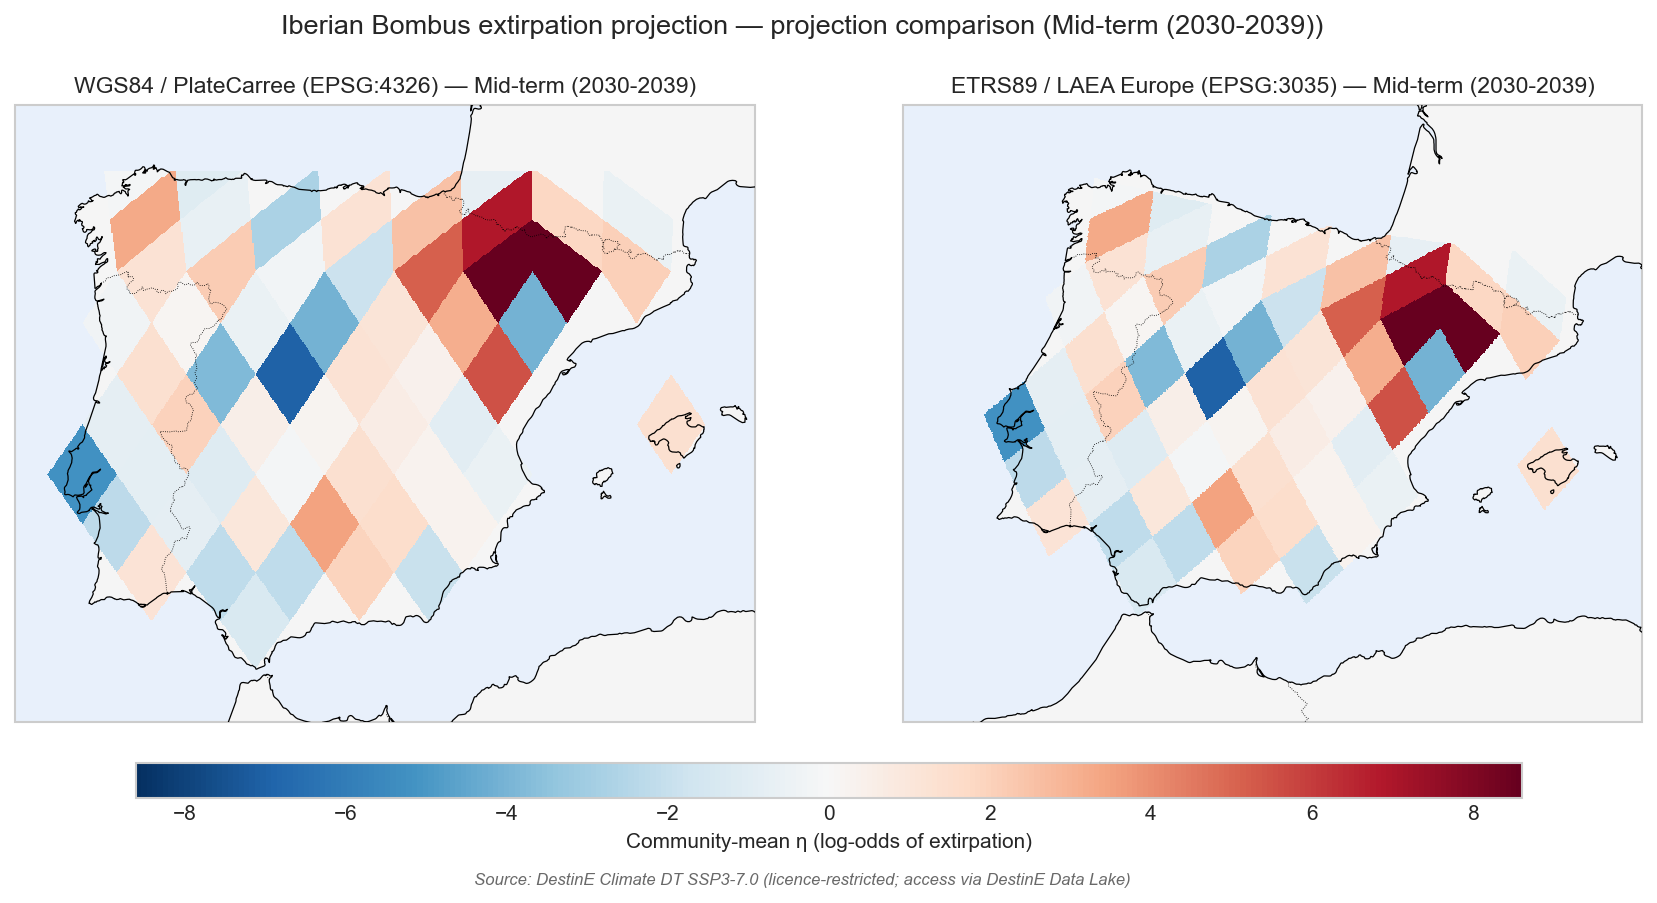
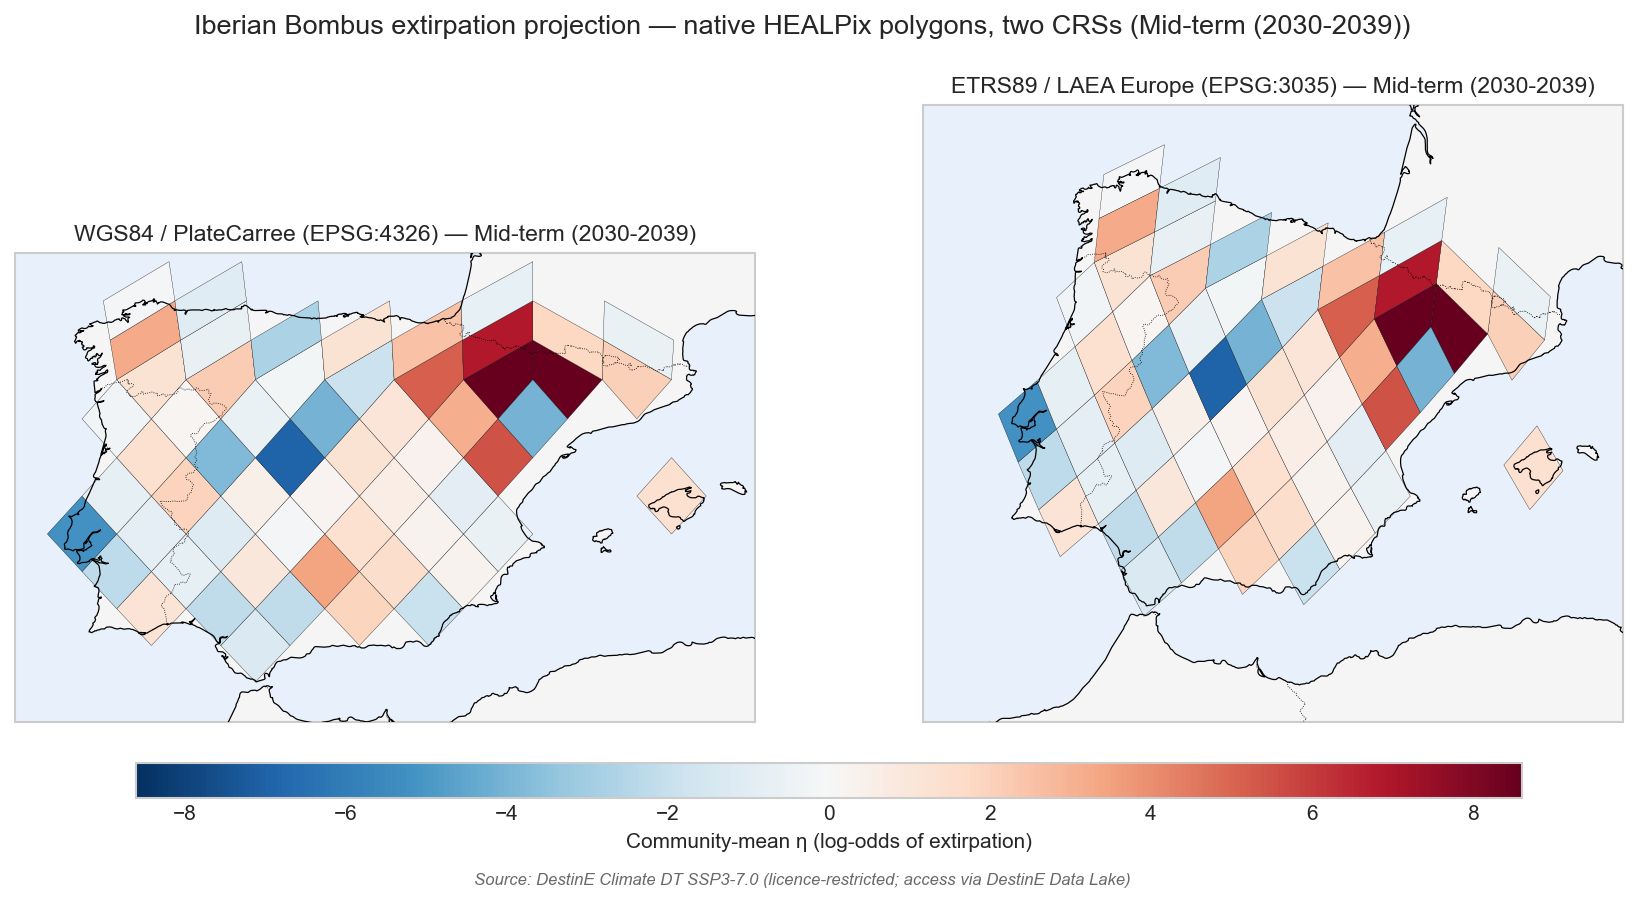
Projection comparison: switch to native HEALPix-on-WGS84 polygons (no resampling)
Per user clarification: the comparison figure should show native HEALPix
polygons (preserving cell geometry exactly), not resampled rasters. Both
panels now use the same WGS84-ellipsoid HEALPix vertices via
healpix_geo.nested.vertices(IBERIA_PIX_64, depth=6, ellipsoid='WGS84').
Cartopy reprojects the polygon edges into each panel's CRS:

  * Left  — ccrs.PlateCarree(): vertices shown at their on-WGS84
    (lon, lat) positions; raw lon/lat-as-x/y view (not equal-area).

  * Right — ccrs.epsg(3035): same vertices, reprojected through ETRS89
    / LAEA Europe (canonical EU equal-area biodiversity reporting CRS).

Result: comparison isolates the effect of CARTOGRAPHIC PROJECTION alone
(no rendering-method confound). Same diamond HEALPix geometry visible
in both, just transformed by the different CRSs.

Standalone risk maps (figures/projection_risk_map_<horizon>.png) keep
the healpix_plot resampled-raster rendering — that's still the cleaner
visual for the headline figures. The comparison figure adds methodological
transparency about how projection affects perceived spatial proportions.

healpix_plot.plot() itself can't render polygons (it always resamples to
a regular grid), so this is the cleanest way to do the
ellipsoid-native-polygon comparison the user asked for.

diff --git a/notebooks/08_projection_figures.py b/notebooks/08_projection_figures.py
@@ -49,6 +49,11 @@ import numpy as np
 import xarray as xr
 import healpix_plot
 from healpix_plot import HealpixGrid
+# healpix_geo.nested.vertices is the canonical way to get the 4 corners
+# of each HEALPix cell on a chosen ellipsoid (sphere | WGS84). Used for
+# the native-polygon rendering in the projection-comparison figure.
+from healpix_geo.nested import vertices as hp_vertices
+from matplotlib.collections import PolyCollection
 
 # %%
 plt.style.use("seaborn-v0_8-whitegrid")
@@ -112,6 +117,14 @@ for h in HORIZONS:
 # %%
 HPX_GRID = HealpixGrid(level=DEPTH, indexing_scheme="nested", ellipsoid="WGS84")
 print(f"HealpixGrid: level={DEPTH} (nside={2**DEPTH}), NESTED, WGS84")
+
+# Pre-compute the on-WGS84 cell vertices once. Used by the native-polygon
+# rendering in the projection-comparison figure (lets cartopy reproject
+# the WGS84 vertices through any target CRS).
+_lon_v, _lat_v = hp_vertices(IBERIA_PIX_64, DEPTH, ellipsoid="WGS84")
+_lon_v = np.where(_lon_v > 180.0, _lon_v - 360.0, _lon_v)
+WGS84_POLY_XY = np.stack([_lon_v, _lat_v], axis=-1)   # (N_64, 4, 2)
+print(f"WGS84 cell-vertex polygon array: shape={WGS84_POLY_XY.shape}")
 
 # %% [markdown]
 # ## Helper: ranked bar chart on a given matplotlib axis
@@ -284,6 +297,58 @@ plt.show()
 print(f"Saved {out}")
 
 # %% [markdown]
+# ## Native-polygon HEALPix-on-WGS84 helper
+#
+# Renders the 110 nside=64 cells as their actual on-WGS84 quadrilateral
+# polygons (vertices from `healpix_geo.nested.vertices(..., ellipsoid="WGS84")`).
+# Lets cartopy reproject the polygon edges into whatever the axis CRS is,
+# so the same physical cells can be visualised in PlateCarree (lon/lat
+# direct), LAEA Europe, etc. NO RESAMPLING — preserves cell-boundary
+# geometry exactly as defined by the WGS84 ellipsoid + HEALPix indexing.
+#
+# (Contrast with `_draw_healpix_map` above which uses
+# `healpix_plot.plot()` to resample onto a regular grid in the axis CRS.
+# That gives a clean continuous raster but loses cell boundaries.)
+
+# %%
+def _draw_healpix_polygons_native(ax, raster_per_cell, title):
+    """Render HEALPix cells as their native WGS84-ellipsoid polygons,
+    reprojected by cartopy into the axis's CRS. Diverging RdBu_r
+    centred on η=0; same colour scaling as `_draw_healpix_map`.
+    """
+    pc = ccrs.PlateCarree()
+    ax.set_extent([-10.5, 4.5, 35.0, 44.5], crs=pc)
+    ax.add_feature(cfeature.LAND, facecolor="#f5f5f5", zorder=0)
+    ax.add_feature(cfeature.OCEAN, facecolor="#e8f0fb", zorder=0)
+
+    valid = np.isfinite(raster_per_cell)
+    if valid.sum() == 0:
+        ax.set_title(title + " (no data)", fontsize=11)
+        return None
+
+    span = max(0.5, float(np.nanpercentile(np.abs(raster_per_cell), 98)))
+
+    polys = WGS84_POLY_XY[valid]
+    vals = raster_per_cell[valid]
+    pcoll = PolyCollection(
+        polys,
+        array=vals,
+        cmap="RdBu_r",
+        norm=plt.Normalize(vmin=-span, vmax=+span),
+        edgecolors="black",
+        linewidths=0.15,
+        transform=pc,           # vertices are WGS84 lon/lat → reproject via PlateCarree CRS
+        zorder=1,
+    )
+    ax.add_collection(pcoll)
+    # Coastlines on top of the polygons.
+    ax.add_feature(cfeature.COASTLINE, linewidth=0.6, zorder=3)
+    ax.add_feature(cfeature.BORDERS, linewidth=0.4, linestyle=":", zorder=3)
+    ax.set_title(title, fontsize=11)
+    return pcoll
+
+
+# %% [markdown]
 # ## Figures 2 + 3 — per-cell community-mean risk maps
 
 # %%
@@ -323,50 +388,53 @@ for h in HORIZONS:
 
 
 # %% [markdown]
-# ## Projection comparison — WGS84 / PlateCarree vs ETRS89 / LAEA Europe
+# ## Projection comparison — native HEALPix-on-WGS84 polygons in two CRSs
 #
-# Same η raster, same colormap, same colorbar — different cartographic
-# projections. Demonstrates the visual consequence of the projection
-# choice. Both projections are geographically faithful in their own
-# sense:
+# Same physical HEALPix cells (vertices computed on the WGS84 ellipsoid
+# via `healpix_geo.nested.vertices(..., ellipsoid="WGS84")`), rendered
+# as native polygons (no resampling, no raster), reprojected by cartopy
+# into two different cartographic projections. Same colormap, same
+# colorbar — only the cartographic CRS differs.
 #
-#   * **PlateCarree (WGS84 lon/lat)** — preserves NOTHING (not area,
-#     not angle, not distance). Cells are mapped 1:1 from lon/lat to
-#     plot x/y. At Iberia latitudes (35-44° N) this stretches cells
-#     east-west by a factor of cos(40°) ≈ 1.31 relative to their true
-#     on-sphere shape. **Easy to read; not equal-area; not the
-#     canonical EU choice.**
+#   * **Left — WGS84 / PlateCarree (EPSG:4326)**: lon/lat shown directly
+#     as plot x/y. Cell vertices land at their on-WGS84 (lon, lat); the
+#     PlateCarree x-axis is degrees east, y is degrees north. Not
+#     equal-area: at Iberia latitudes (35-44° N) cells appear stretched
+#     east-west by ~1/cos(40°) ≈ 1.31 relative to their true on-sphere
+#     shape. Useful as the "raw HEALPix-on-ellipsoid" view.
 #
-#   * **ETRS89 / LAEA Europe (EPSG:3035)** — equal-area, low-distortion
-#     for Europe (centred on lat 52° N, lon 10° E). Faithful to
-#     HEALPix's native equal-area pixelisation. **Canonical EEA /
-#     Natura 2000 / EUNIS / INSPIRE biodiversity reporting CRS.**
+#   * **Right — ETRS89 / LAEA Europe (EPSG:3035)**: same polygons, but
+#     cartopy reprojects each vertex through Europe's canonical
+#     equal-area CRS (LAEA centred on lat 52° N, lon 10° E). Cells
+#     appear in their true relative areas. **Canonical EEA / Natura
+#     2000 / EUNIS / INSPIRE biodiversity reporting CRS.**
 #
-# Use this comparison figure when a reader asks "does projection choice
-# affect the apparent spatial pattern?" — answer: not the high-vs-low
-# regions, but absolutely the visual proportions.
+# Both panels use the SAME polygon rendering (no resampling) so the
+# only thing varying is the projection. Use this figure to answer
+# "does projection choice affect cell shape / relative area?" — yes,
+# noticeably; the high-vs-low η geography is identical, but proportions
+# differ.
 
 # %%
 def _plot_proj_comparison(horizon: str, raster: np.ndarray) -> Path:
-    """Side-by-side same-data, two-projection comparison map."""
+    """Side-by-side same-data, two-projection comparison map.
+    Both panels render the same WGS84-ellipsoid HEALPix polygons —
+    only the cartopy projection differs."""
     fig = plt.figure(figsize=(14, 6))
-    proj_left = ccrs.PlateCarree()
-    proj_right = ccrs.epsg(3035)
-    ax_left = fig.add_subplot(1, 2, 1, projection=proj_left)
-    ax_right = fig.add_subplot(1, 2, 2, projection=proj_right)
+    ax_left = fig.add_subplot(1, 2, 1, projection=ccrs.PlateCarree())
+    ax_right = fig.add_subplot(1, 2, 2, projection=ccrs.epsg(3035))
 
-    pc_left = _draw_healpix_map(
+    pc_left = _draw_healpix_polygons_native(
         ax_left, raster,
         f"WGS84 / PlateCarree (EPSG:4326) — {HORIZON_TITLES[horizon]}",
     )
-    pc_right = _draw_healpix_map(
+    pc_right = _draw_healpix_polygons_native(
         ax_right, raster,
         f"ETRS89 / LAEA Europe (EPSG:3035) — {HORIZON_TITLES[horizon]}",
     )
 
-    # Shared colorbar (using the LAEA mappable; both panels share the
-    # same vmin/vmax because _draw_healpix_map computes span from the
-    # raster, which is the same in both calls).
+    # Shared colorbar; both panels use the same RdBu_r mapping with
+    # span computed from the raster, which is the same in both calls.
     if pc_right is not None:
         cbar = fig.colorbar(
             pc_right, ax=[ax_left, ax_right], orientation="horizontal",
@@ -375,8 +443,8 @@ def _plot_proj_comparison(horizon: str, raster: np.ndarray) -> Path:
         cbar.set_label("Community-mean η (log-odds of extirpation)")
 
     fig.suptitle(
-        f"Iberian Bombus extirpation projection — projection comparison "
-        f"({HORIZON_TITLES[horizon]})",
+        f"Iberian Bombus extirpation projection — native HEALPix polygons, "
+        f"two CRSs ({HORIZON_TITLES[horizon]})",
         fontsize=13,
     )
     fig.text(
